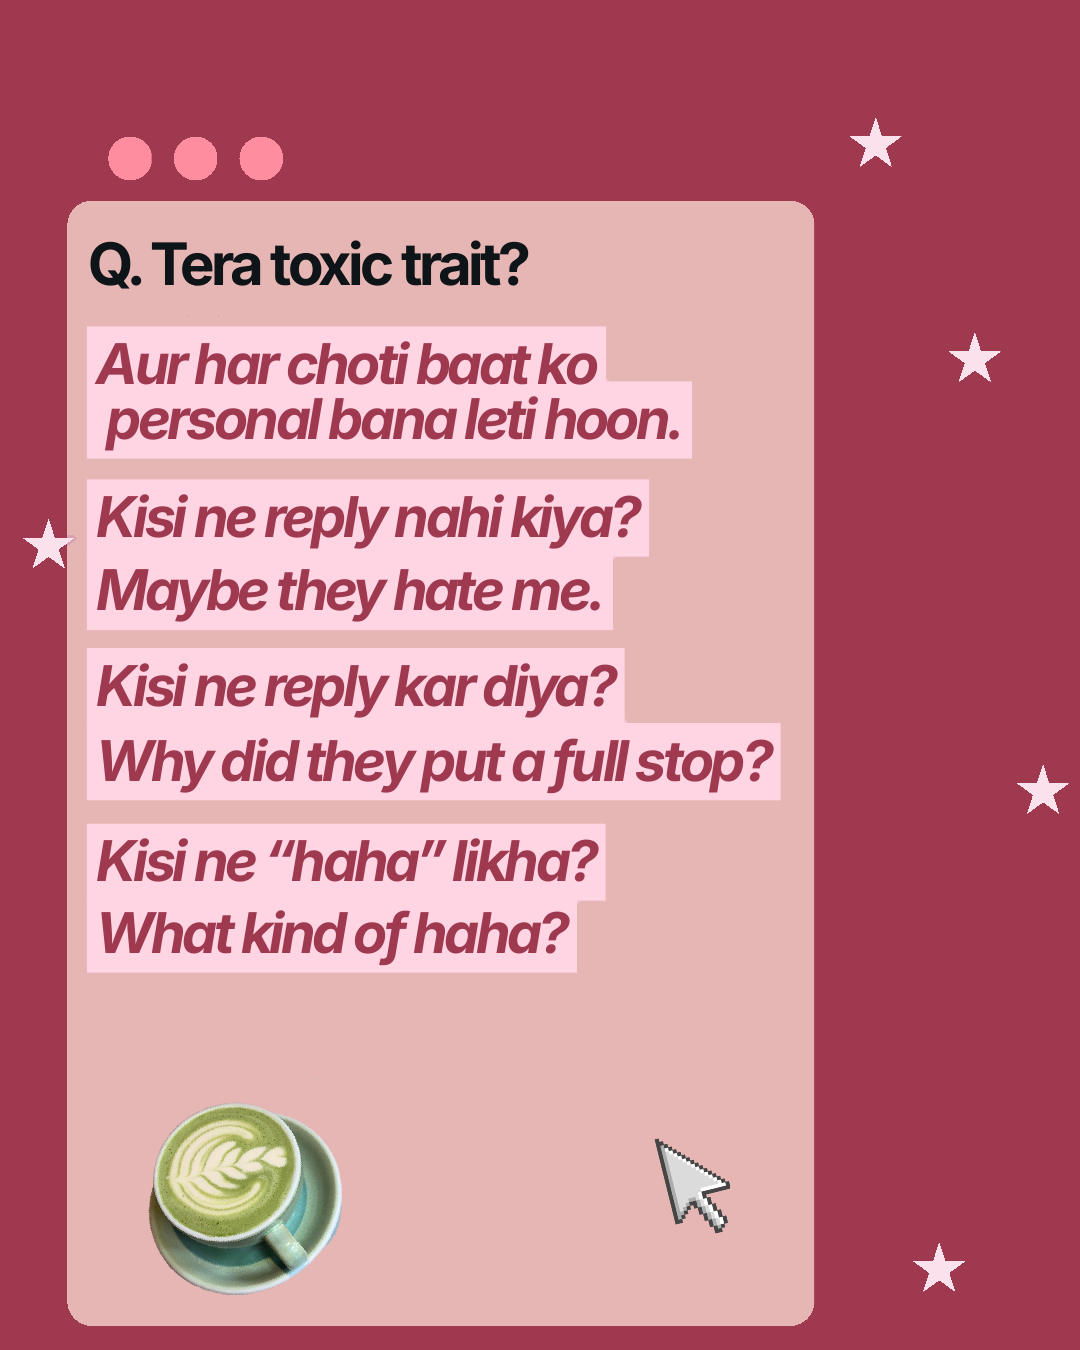
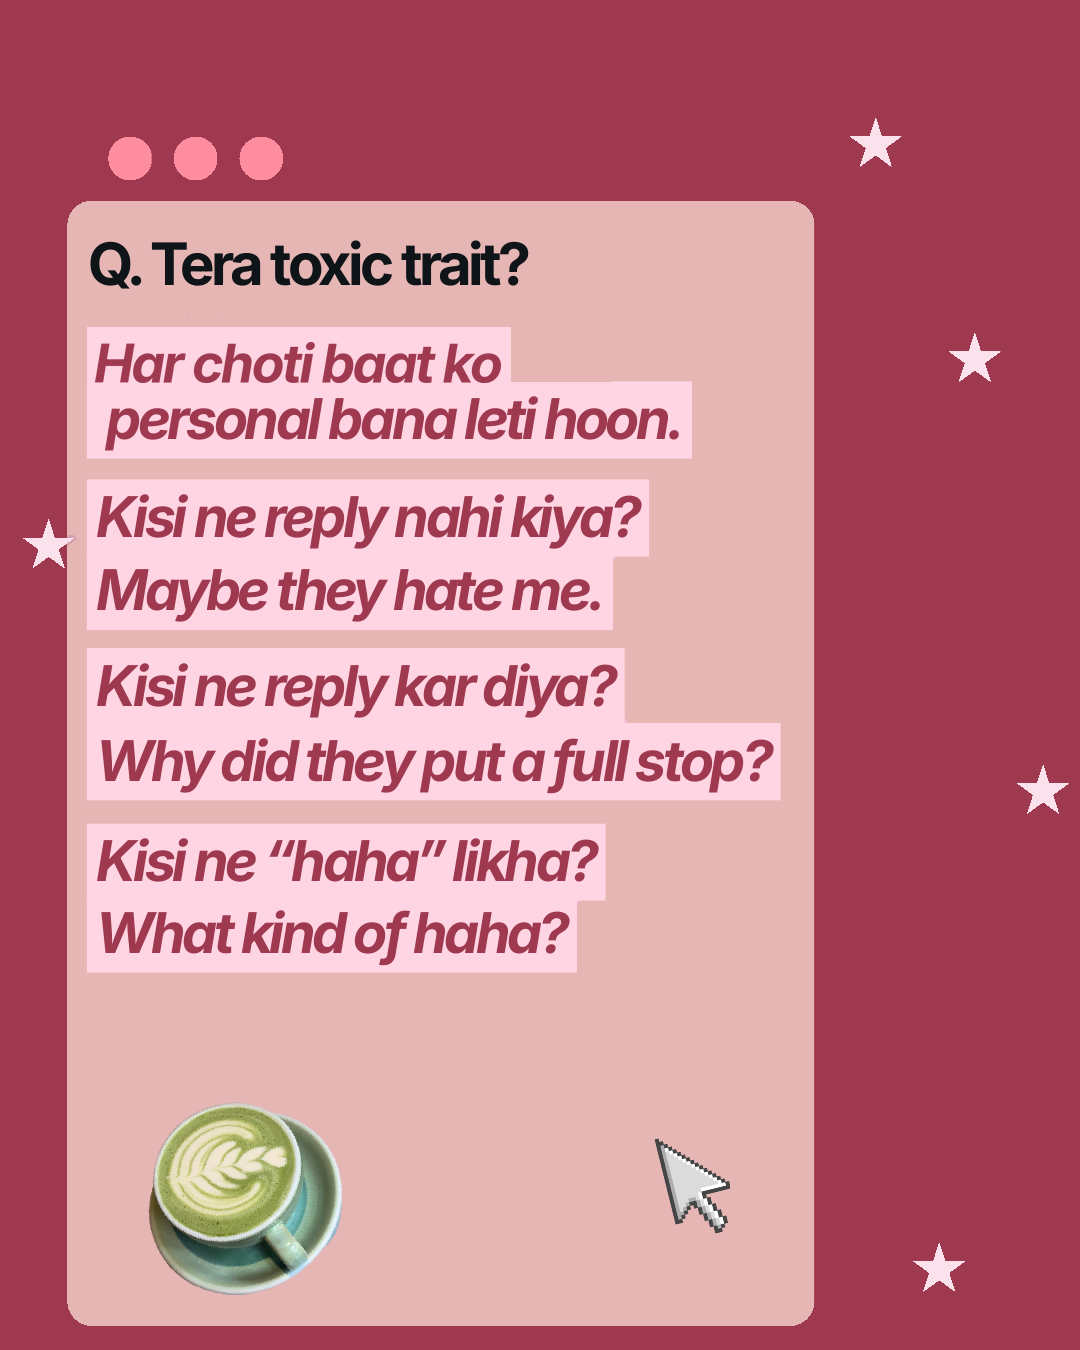
Add files via upload

Changed region(s): [[0.0917, 0.2178, 0.5806, 0.3111]]

diff --git a/part2.html b/part2.html
@@ -5,7 +5,7 @@
 <meta name="viewport" content="width=device-width, initial-scale=1.0">
 <title>Girl on H4's Diary: Did I Accidentally Eat Lobster? — Chaat and Chatter</title>
 <meta name="description" content="I said I&rsquo;m vegetarian.<br>Universe said &ldquo;here&rsquo;s a lobster, good luck.&rdquo;">
-<link rel="stylesheet" href="style.css">
+<link rel="stylesheet" href="style.css?v=2">
 </head>
 <body class="viewer-page">
 

diff --git a/part1.html b/part1.html
@@ -5,7 +5,7 @@
 <meta name="viewport" content="width=device-width, initial-scale=1.0">
 <title>Girl on H4's Diary: A Love Letter to Saturday Chaat — Chaat and Chatter</title>
 <meta name="description" content="Weekday meals: bharta and sad vibes.<br>Weekend meals: chaat and main character energy.">
-<link rel="stylesheet" href="style.css">
+<link rel="stylesheet" href="style.css?v=2">
 </head>
 <body class="viewer-page">
 

diff --git a/part5.html b/part5.html
@@ -5,7 +5,7 @@
 <meta name="viewport" content="width=device-width, initial-scale=1.0">
 <title>Girl on H4's Diary: I Got Ditched by My New Best Friend — Chaat and Chatter</title>
 <meta name="description" content="Made a Bay Area bestie on Reddit.<br>Bay Area bestie made other plans.">
-<link rel="stylesheet" href="style.css">
+<link rel="stylesheet" href="style.css?v=2">
 </head>
 <body class="viewer-page">
 

diff --git a/part3.html b/part3.html
@@ -5,7 +5,7 @@
 <meta name="viewport" content="width=device-width, initial-scale=1.0">
 <title>Girl on H4's Diary: I Paid to Be Terrified — Chaat and Chatter</title>
 <meta name="description" content="Bought the ticket for fun.<br>Left questioning every decision that led me here.">
-<link rel="stylesheet" href="style.css">
+<link rel="stylesheet" href="style.css?v=2">
 </head>
 <body class="viewer-page">
 

diff --git a/meet.html b/meet.html
@@ -5,7 +5,7 @@
 <meta name="viewport" content="width=device-width, initial-scale=1.0">
 <title>Meet the Girl Behind the Chaat — Chaat and Chatter</title>
 <meta name="description" content="Thirteen questions, zero filters. Answers served in Hinglish, with extra masala.">
-<link rel="stylesheet" href="style.css">
+<link rel="stylesheet" href="style.css?v=2">
 </head>
 <body class="viewer-page">
 

diff --git a/part4.html b/part4.html
@@ -5,7 +5,7 @@
 <meta name="viewport" content="width=device-width, initial-scale=1.0">
 <title>Girl on H4's Diary: I Burnt My House — Chaat and Chatter</title>
 <meta name="description" content="Started with dal baati.<br>Ended with a full building evacuation drill.">
-<link rel="stylesheet" href="style.css">
+<link rel="stylesheet" href="style.css?v=2">
 </head>
 <body class="viewer-page">
 

diff --git a/index.html b/index.html
@@ -5,7 +5,7 @@
 <meta name="viewport" content="width=device-width, initial-scale=1.0">
 <title>Chaat and Chatter</title>
 <meta name="description" content="A swipe-through diary of small disasters, one green card at a time.">
-<link rel="stylesheet" href="style.css">
+<link rel="stylesheet" href="style.css?v=2">
 </head>
 <body>
 
